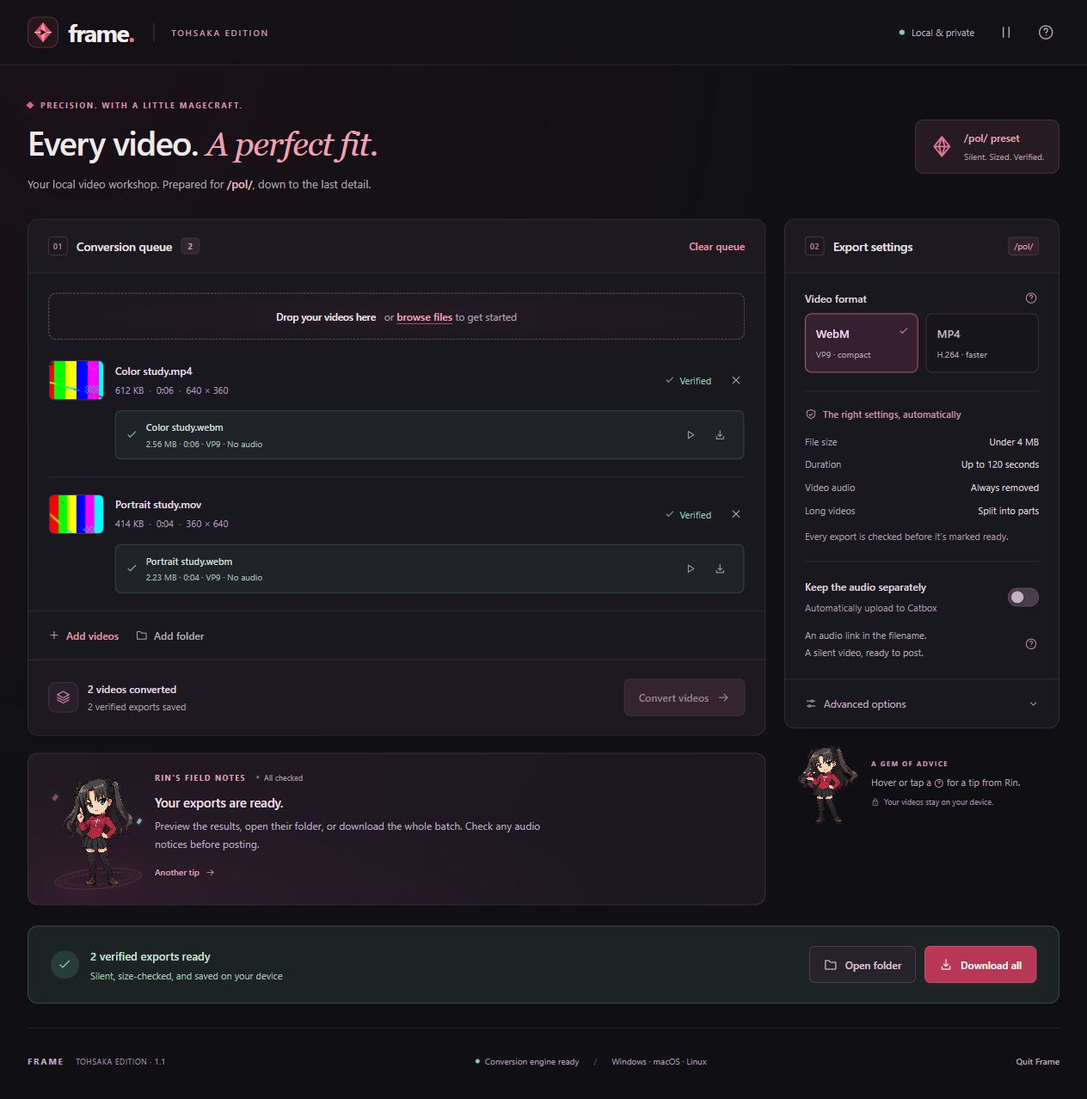
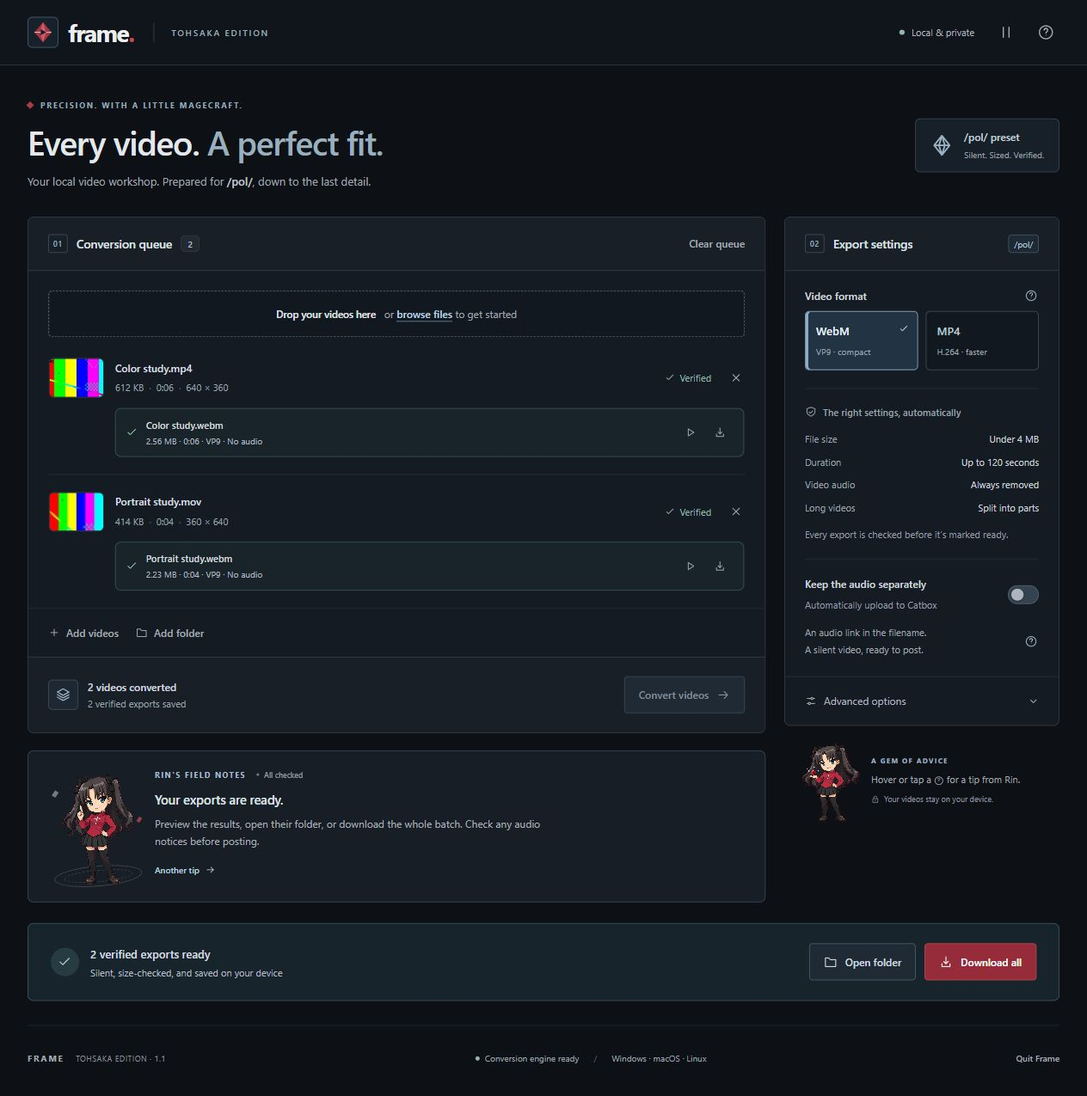
Use cold graphite and steel tones for the Rin interface

diff --git a/public/rin.css b/public/rin.css
@@ -1,57 +1,57 @@
-/* Tohsaka Edition: permanent dark surfaces, ruby accents, quiet character motion. */
-:root{color-scheme:only dark;color:#eee9ed;background:#101014;--green:#e7758e;--green-dark:#ffb0c1;--green-pale:#30202a;--line:#343039;--muted:#a59dab;--text-secondary:#b6aebb;--surface:#19181e;--inset:#141318;--ruby:#e7758e;--jewel:#8ebcdd;--success:#91c9b6}
-body{background:radial-gradient(ellipse at 8% 5%,#35142145,transparent 50%),#101014;min-height:100vh}
-::selection{background:#8b304c;color:#fff}
+/* Tohsaka Edition: cold graphite surfaces, steel-blue controls, restrained crimson accents. */
+:root{color-scheme:only dark;color:#e3e8ed;background:#0d1116;--green:#b8c9d6;--green-dark:#eef4f8;--green-pale:#1b2732;--line:#303b46;--muted:#9aa8b5;--text-secondary:#b2bec8;--surface:#151b22;--inset:#10161c;--ruby:#c34950;--jewel:#8fb1ca;--success:#92b8aa}
+body{min-height:100vh;background:#0d1116}
+::selection{background:#375064;color:#ffffff}
 button:focus-visible,a:focus-visible,summary:focus-visible,input:focus-visible,select:focus-visible,[tabindex]:focus-visible{outline:2px solid var(--jewel);outline-offset:4px}
-.topbar{height:76px;background:#121116eb;border-bottom-color:#302730;padding:0 max(32px,calc((100vw - 1200px)/2));gap:20px}
-.brand{color:#f5edf0;font-size:28px;gap:11px}.brand-dot{color:var(--ruby)}.brand img{width:36px;height:36px}
-.header-divider{background:#3e2c36}.app-description{font-size:10px;font-weight:600;letter-spacing:1.8px;color:#c69ba9}
-.header-right{gap:14px}.local-badge{color:#bab2bf;font-size:11px;margin-right:7px}.status-dot{background:var(--success);box-shadow:0 0 7px #91c9b623}
-.icon-button{color:#b4a8b9;min-height:32px;min-width:32px;border-radius:7px}.icon-button:hover{background:#30232e;color:#ffbfd0}.icon-button:disabled{opacity:.4}
-main{max-width:1200px;margin:0 auto;padding-top:40px}.page-heading{margin-bottom:30px;gap:25px}.eyebrow{color:#d093a5;display:flex;align-items:center;gap:9px;font-size:9px;letter-spacing:1.8px;margin-bottom:13px}
-.tiny-gem{width:6px;height:6px;background:#d16a87;transform:rotate(45deg);box-shadow:0 0 14px #cd446456}
-h1{font-size:39px;font-weight:580;letter-spacing:-1.3px;line-height:1.22;margin-bottom:12px}h1>span{font-family:Georgia,'Times New Roman',serif;font-style:italic;font-weight:400;color:#eea1b6;letter-spacing:-1.1px}.mobile-break{display:none}
-.page-heading p{color:#ada4b3;font-size:13px;line-height:1.65}.inline-code{color:#e6bfca}
-.profile-badge{border-color:#51313f;background:#261a23;color:#e2a5b8;border-radius:10px;gap:12px;padding:12px 17px;box-shadow:inset 0 1px #ffffff03}
-.profile-badge>svg{width:27px;height:27px;margin:0;color:#e27896}.profile-badge strong{display:block;font-size:12px;font-weight:600;margin-bottom:5px}.profile-badge span{font-size:10px;color:#b89aa9;font-weight:400}
+.topbar{height:76px;padding:0 max(32px,calc((100vw - 1200px)/2));gap:20px;background:#10151b;border-bottom-color:#2a3540}
+.brand{color:#edeff2;font-size:28px;gap:11px}.brand-dot{color:var(--ruby)}.brand img{width:36px;height:36px}
+.header-divider{background:#2a3139}.app-description{font-size:10px;font-weight:600;letter-spacing:1.8px;color:#9daab7}
+.header-right{gap:14px}.local-badge{color:#aeb5bd;font-size:11px;margin-right:7px}.status-dot{background:var(--success);box-shadow:none}
+.icon-button{color:#a5acb5;min-height:32px;min-width:32px;border-radius:7px}.icon-button:hover{background:#20272f;color:#c7ced6}.icon-button:disabled{opacity:.4}
+main{max-width:1200px;margin:0 auto;padding-top:40px}.page-heading{margin-bottom:30px;gap:25px}.eyebrow{display:flex;align-items:center;gap:9px;font-size:9px;letter-spacing:1.8px;margin-bottom:13px;color:#94a8b9}
+.tiny-gem{width:6px;height:6px;transform:rotate(45deg);background:#a93c46;box-shadow:none}
+h1{font-size:39px;line-height:1.22;margin-bottom:12px;font-weight:620;letter-spacing:-1.2px}h1>span{font-family:inherit;font-style:normal;font-weight:620;color:#9baebe;letter-spacing:-1.2px}.mobile-break{display:none}
+.page-heading p{color:#a0a7b0;font-size:13px;line-height:1.65}.inline-code{color:#c1c8d1}
+.profile-badge{gap:12px;padding:12px 17px;background:#171f28;border-color:#354554;color:#c1ced9;border-radius:6px;box-shadow:none}
+.profile-badge>svg{width:27px;height:27px;margin:0;color:#99b1c3}.profile-badge strong{display:block;font-size:12px;font-weight:600;margin-bottom:5px}.profile-badge span{font-size:10px;color:#9aa1aa;font-weight:400}
 .workspace{grid-template-columns:minmax(0,1fr) 342px;gap:24px;align-items:start}.queue-column,.settings-column{min-width:0}
-.panel{background:var(--surface);border-color:var(--line);border-radius:12px;box-shadow:0 8px 30px #00000010}.panel-heading{min-height:62px;padding:0 23px;border-bottom-color:#322b35;background:#1c1920}
-h2{color:#e8e0e8;font-size:14px;gap:10px;font-weight:580}.section-number{font-size:9px;font-weight:500;color:#c8869b;border:1px solid #513240;padding:4px 5px;border-radius:4px;font-variant-numeric:tabular-nums;letter-spacing:.5px}
-.count-badge{background:#302630;border-color:#423440;color:#cdb7c3;font-size:10px;min-width:22px}.text-button{color:#e49bb0;font-size:12px;min-height:32px}.text-button:hover{color:#ffc1d2}.text-button:disabled{color:#726573}.text-button.muted{color:#b8a7b8}.text-button.muted:hover{color:#ffc1d2}
-.dropzone{border-color:#61404e;background:radial-gradient(ellipse at center,#43203240,transparent 72%),#1c181f;margin:23px 23px 0;padding:34px 20px 28px;border-radius:9px}
-.dropzone:hover,.dropzone.dragging{border-color:#cc738f;background:#2a1c28}.dropzone.dragging{box-shadow:inset 0 0 0 1px #c5748d}.dropzone[aria-disabled=true]{cursor:default}
-.upload-art{width:56px;height:62px;border:1px solid #704253;background:linear-gradient(140deg,#412131,#281a26);color:#e799b1;box-shadow:0 7px 20px #08060b50;transform:rotate(-5deg);border-radius:10px;margin-bottom:17px}
-.upload-art:after{content:'';position:absolute;inset:5px;border:1px solid #ffffff08;border-radius:7px}.upload-art svg{width:27px;height:27px}
-.orbit-corner{position:absolute;right:-11px;top:8px;width:8px;height:8px;background:#a64360;transform:rotate(45deg);border:1px solid #e990ab}.orbit-corner.small{left:-12px;top:40px;width:5px;height:5px;background:#709bbf;border-color:#aed2e7}
-.dropzone h3{color:#ede2ea;font-size:16px;font-weight:550}.dropzone p{color:#b0a3b6;font-size:12px}.browse-link{color:#f1a4be;text-decoration-color:#a45874}.format-list{color:#ae9cad;font-size:10px;font-weight:450;margin-top:23px;gap:10px}.format-list span{color:#8e788d}.format-list span:last-child{color:#a594a7}
-.queue-empty{display:flex;justify-content:center;gap:23px;padding:26px 18px;color:#a99aaa}.queue-empty>span{display:flex;align-items:center;gap:7px;color:#a99aaa;font-size:10px}.queue-empty svg{width:13px;height:13px;color:#c4879c}
-.queue-add{border-top-color:#302833;padding:12px 23px;gap:20px}.queue-add>span{color:#a595a6;font-size:10px}.queue-add svg{width:14px;height:14px}
-.queue-bottom{background:#1e1921;border-top-color:#392e3a;padding:22px 23px;gap:16px}.summary-icon{background:#28202c;border-color:#493342;color:#c4859d;width:35px;height:35px}.queue-summary strong{color:#e1d6e2;font-size:12px;font-weight:550}.queue-summary span{color:#ad9faf;font-size:11px}
-.primary-button,.secondary-button{min-height:43px;font-size:12px;border-radius:7px;padding:11px 16px}
-.primary-button{background:#b83754;border-color:#ce546f;color:#fff;box-shadow:0 3px 12px #a3234022}.primary-button:hover{background:#ce4362;border-color:#e56b86;color:#fff}.primary-button:disabled{background:#33242f;border-color:#4d3141;color:#9f8396;box-shadow:none}
-.secondary-button{background:#28222d;border-color:#564150;color:#e0c6d5}.secondary-button:hover{background:#392837;border-color:#8d5a74}.small-label{background:#30202b;border-color:#553340;color:#e2a3b6;font-size:10px}
-.settings-section{padding:21px 23px}.field-heading{display:flex;align-items:center;justify-content:space-between;gap:12px;margin-bottom:10px}.field-heading .field-label{margin-bottom:0}.field-label,.field-name{color:#e0d3df;font-size:12px;font-weight:550}.hint-button{display:inline-flex;justify-content:center;align-items:center;flex-shrink:0;width:28px;height:28px;border-radius:6px;background:transparent;color:#c190a7;margin:-6px -5px -6px 0}.hint-button svg{width:15px;height:15px}.hint-button:hover,.hint-button[aria-describedby]{background:#462537;color:#ffb4d0}
-.format-option{background:#17151c;border-color:#453340;color:#c3b2c6;padding:13px 12px;border-radius:8px}.format-option:hover{border-color:#a1617d;background:#271d29}.format-option span{font-size:13px}.format-option small,.format-option.selected small{color:#b3a0b4;font-size:10px}.format-option.selected{background:#342030;border-color:#b45d7b;color:#f5d8e4;box-shadow:0 0 0 1px #bd587714}.format-option.selected>svg{color:#ee9ebc;width:13px;height:13px}
-.requirements{border-color:#342b38;margin:0 23px;padding:19px 0}.requirements .subheading{color:#c998ac}.requirements .subheading strong{font-size:11px;font-weight:500}.requirements dl{margin-top:17px}.requirements dl div{font-size:11px;margin-bottom:12px}.requirements dt{color:#afa0b5}.requirements dd{color:#decfde}.requirements p{color:#a99aac;font-size:11px;margin-top:14px;line-height:1.7}
-.subtle{color:#aa99ae;font-size:11px}.audio-explanation{display:flex;align-items:center;justify-content:space-between;gap:10px;margin-top:14px}.audio-explanation p{color:#b4a2b5;font-size:11px;line-height:1.8;margin:0}.audio-explanation .hint-button{margin:0 -5px 0 0}.switch{width:36px;height:22px}.switch input{width:36px;height:22px}.switch>span{background:#4b3a4b;border:1px solid #655065}.switch>span:after{width:14px;height:14px;top:4px;left:4px;background:#c3b0c4;box-shadow:0 1px 3px #0005}.switch input:checked+span{background:#b9375d;border-color:#cf6584}.switch input:checked+span:after{background:#fff1f6;transform:translateX(14px)}.switch input:focus-visible+span{outline:2px solid var(--jewel);outline-offset:4px}
-.audio-disclosure{background:#34291e;border-color:#655037;color:#e4c294;font-size:11px;padding:12px}.advanced{border-top-color:#392d3b}.advanced>summary{color:#ccafc6;padding:18px 23px;font-size:12px;min-height:56px}.advanced>summary:hover{background:#27202b}.advanced-body{padding:0 23px 23px}.advanced-body>.field-label{margin-top:20px}.field-divider{background:#3b2d40}.checkbox-label{color:#c4abc6;font-size:11px}.checkbox-label input{accent-color:#c85882;width:15px;height:15px}.optional{color:#a78fae;font-size:10px}
-input[type=text],input[type=password],select{background:#141217;color:#e3d3e5;border-color:#534055;font-size:12px;min-height:41px;border-radius:7px}input::placeholder{color:#987f9b}input:disabled,select:disabled{background:#1a171d;color:#88788c;border-color:#3e3244}.field-hint{color:#ad96b3;font-size:11px;line-height:1.75}.filename-preview{background:#211726;border-color:#4b3150;padding:13px;border-radius:8px}.filename-preview>span{color:#c699c4;font-size:9px;letter-spacing:1.2px}.filename-preview code{color:#dec0e0;font-size:11px}.field-error{color:#ffb0b9}
-.file-item{border-bottom-color:#342b39;padding:20px 0}.file-thumb{background:#29212f;border-color:#4d3754;color:#b79abc}.file-name{color:#e7d9e9;font-size:12px}.file-meta,.file-status{color:#b29bbb;font-size:11px}.file-meta span+span:before{color:#705b7b}.file-status.done{color:var(--success)}.file-status.processing{color:#e7a7c9}.file-status.error{color:#ffb0b9}.item-progress>span,.item-stage{color:#baa0c6;font-size:11px}.file-error,.file-warning{color:#e8c695;background:#31271f;border:1px solid #544230}.file-error{background:#391e29;border-color:#6d3c4b;color:#ffb5c7}.output-line{background:#202328;border-color:#384946}.output-line>svg{color:#96c5b9}.output-info strong{color:#cbddd7;font-size:11px}.output-info>span{color:#a7bdb5;font-size:10px}.output-actions .icon-button{min-width:32px;min-height:32px}.import-progress{color:#c49eca;font-size:11px}
-progress,progress::-webkit-progress-bar{background:#3c2c45}progress::-webkit-progress-value{background:#c5709a}progress::-moz-progress-bar{background:#c5709a}.batch-progress{background:#1e1921}.batch-progress span{color:#c6a1cb}.results-bar{background:#1c2325;border-color:#38514b}.success-circle{background:#273e38;color:var(--success)}.results-caption strong{color:#c4e1d6}.results-caption p{color:#a9c1b7;font-size:11px}
-.notice{background:#34281e;border-color:#715137;color:#eec894}.toast{background:#3e233a;border:1px solid #a16487;box-shadow:0 7px 30px #0006;color:#ffe2f2;z-index:400}dialog{background:#201923;color:#f0e2f2;border-color:#624664;box-shadow:0 25px 90px #0009}dialog::backdrop{background:#08060dcc;backdrop-filter:blur(5px)}dialog p,dialog li{color:#c7b0ce;font-size:12px}dialog code{color:#f0b8db}.source-links{border-top-color:#4a3251}#previewVideo{background:#08060b}
-footer{border-top:1px solid #2f2334;margin-top:28px;padding:22px 0 27px;color:#a389ae;font-size:10px}footer>span{color:#c2a3c9;font-size:10px;letter-spacing:1.8px}.footer-version{font-size:9px;color:#a48cac;letter-spacing:.5px;margin-left:9px}footer>div{color:#b19cbb;font-size:10px}.footer-separator{color:#725e7a}
+.panel{background:var(--surface);border-color:var(--line);border-radius:7px;box-shadow:none}.panel-heading{min-height:62px;padding:0 23px;background:#181f27;border-bottom-color:#303b46}
+h2{color:#dee2e7;font-size:14px;gap:10px;font-weight:580}.section-number{font-size:9px;font-weight:500;padding:4px 5px;font-variant-numeric:tabular-nums;letter-spacing:.5px;color:#9cb0c1;border:1px solid #3c4b59;border-radius:3px}
+.count-badge{background:#222932;border-color:#313841;color:#b6bdc5;font-size:10px;min-width:22px}.text-button{color:#a5acb5;font-size:12px;min-height:32px}.text-button:hover{color:#c9cfd8}.text-button:disabled{color:#626972}.text-button.muted{color:#a5acb5}.text-button.muted:hover{color:#c9cfd8}
+.dropzone{margin:23px 23px 0;padding:34px 20px 28px;background:#111820;border-color:#425362;border-radius:5px}
+.dropzone:hover,.dropzone.dragging{background:#18232d;border-color:#8ba8bd}.dropzone.dragging{box-shadow:inset 0 0 0 1px #8ba8bd}.dropzone[aria-disabled=true]{cursor:default}
+.upload-art{width:56px;height:62px;margin-bottom:17px;background:#1c2834;border:1px solid #4a5f71;color:#b8ccdb;box-shadow:none;transform:none;border-radius:5px}
+.upload-art:after{content:'';position:absolute;inset:5px;border:1px solid #ffffff08;border-radius:3px}.upload-art svg{width:27px;height:27px}
+.orbit-corner{position:absolute;right:-11px;top:8px;width:8px;height:8px;transform:rotate(45deg);background:#9f333f;border:1px solid #c45b65}.orbit-corner.small{left:-12px;top:40px;width:5px;height:5px;background:#7394ad;border-color:#a7bdcd}
+.dropzone h3{color:#e1e5e9;font-size:16px;font-weight:550}.dropzone p{color:#a0a7b0;font-size:12px}.browse-link{color:#bdd1e0;text-decoration-color:#64839a}.format-list{color:#9aa1aa;font-size:10px;font-weight:450;margin-top:23px;gap:10px}.format-list span{color:#777e87}.format-list span:last-child{color:#9299a2}
+.queue-empty{display:flex;justify-content:center;gap:23px;padding:26px 18px;color:#979ea7}.queue-empty>span{display:flex;align-items:center;gap:7px;color:#979ea7;font-size:10px}.queue-empty svg{width:13px;height:13px;color:#8e959e}
+.queue-add{border-top-color:#232a33;padding:12px 23px;gap:20px}.queue-add>span{color:#939aa2;font-size:10px}.queue-add svg{width:14px;height:14px}
+.queue-bottom{padding:22px 23px;gap:16px;background:#181f27;border-top-color:#303b46}.summary-icon{width:35px;height:35px;background:#1e2832;border-color:#3a4b5b;color:#a2b8ca;border-radius:5px}.queue-summary strong{color:#d4d9e0;font-size:12px;font-weight:550}.queue-summary span{color:#9ca3ac;font-size:11px}
+.primary-button,.secondary-button{min-height:43px;font-size:12px;padding:11px 16px;border-radius:4px}
+.primary-button{background:#962c39;border-color:#bb4653;color:#ffffff;box-shadow:none}.primary-button:hover{background:#ad3544;border-color:#d15b68;color:#ffffff}.primary-button:disabled{box-shadow:none;background:#202a34;border-color:#374653;color:#81909e}
+.secondary-button{background:#202a34;border-color:#475968;color:#cfdae2}.secondary-button:hover{background:#2a3947;border-color:#7995a9}.small-label{font-size:10px;background:#1d2934;border-color:#405365;color:#b6c9d8}
+.settings-section{padding:21px 23px}.field-heading{display:flex;align-items:center;justify-content:space-between;gap:12px;margin-bottom:10px}.field-heading .field-label{margin-bottom:0}.field-label,.field-name{color:#d1d7de;font-size:12px;font-weight:550}.hint-button{display:inline-flex;justify-content:center;align-items:center;flex-shrink:0;width:28px;height:28px;background:transparent;margin:-6px -5px -6px 0;color:#9bb3c5;border-radius:4px}.hint-button svg{width:15px;height:15px}.hint-button:hover,.hint-button[aria-describedby]{background:#293d4d;color:#e1edf5}
+.format-option{padding:13px 12px;border-radius:5px;background:#111820;border-color:#3b4b59;color:#bac8d3}.format-option:hover{background:#1b2833;border-color:#7e9bb0}.format-option span{font-size:13px}.format-option small,.format-option.selected small{color:#9ea5ae;font-size:10px}.format-option.selected{background:#223443;border-color:#819fb6;color:#e7f0f7;box-shadow:inset 3px 0 #91b0c8}.format-option.selected>svg{width:13px;height:13px;color:#bdd8eb}
+.requirements{border-color:#272e37;margin:0 23px;padding:19px 0}.requirements .subheading{color:#9da4ad}.requirements .subheading strong{font-size:11px;font-weight:500}.requirements dl{margin-top:17px}.requirements dl div{font-size:11px;margin-bottom:12px}.requirements dt{color:#9ea5ad}.requirements dd{color:#cdd3db}.requirements p{color:#979ea7;font-size:11px;margin-top:14px;line-height:1.7}
+.subtle{color:#979ea7;font-size:11px}.audio-explanation{display:flex;align-items:center;justify-content:space-between;gap:10px;margin-top:14px}.audio-explanation p{color:#a0a7b0;font-size:11px;line-height:1.8;margin:0}.audio-explanation .hint-button{margin:0 -5px 0 0}.switch{width:36px;height:22px}.switch input{width:36px;height:22px}.switch>span{background:#354351;border:1px solid #526170}.switch>span:after{width:14px;height:14px;top:4px;left:4px;background:#aeb5be;box-shadow:0 1px 3px #00000055}.switch input:checked+span{background:#567a97;border-color:#9bb5ca}.switch input:checked+span:after{transform:translateX(14px);background:#f2f6f9}.switch input:focus-visible+span{outline:2px solid var(--jewel);outline-offset:4px}
+.audio-disclosure{font-size:11px;padding:12px;background:#26231b;border-color:#5d543b;color:#dfc99a}.advanced{border-top-color:#2a3139}.advanced>summary{color:#b0b7c0;padding:18px 23px;font-size:12px;min-height:56px}.advanced>summary:hover{background:#1c222a}.advanced-body{padding:0 23px 23px}.advanced-body>.field-label{margin-top:20px}.field-divider{background:#2a313a}.checkbox-label{color:#abb2bb;font-size:11px}.checkbox-label input{width:15px;height:15px;accent-color:#759ab5}.optional{color:#8f969f;font-size:10px}
+input[type=text],input[type=password],select{font-size:12px;min-height:41px;background:#10171e;color:#dae4ec;border-color:#405364;border-radius:4px}input::placeholder{color:#7f868f}input:disabled,select:disabled{background:#14181d;color:#767d86;border-color:#2f363f}.field-hint{color:#969da6;font-size:11px;line-height:1.75}.filename-preview{padding:13px;background:#101922;border-color:#364d60;border-radius:4px}.filename-preview>span{color:#9fa6ae;font-size:9px;letter-spacing:1.2px}.filename-preview code{color:#c2c9d1;font-size:11px}.field-error{color:#f0a0a5}
+.file-item{border-bottom-color:#272e37;padding:20px 0}.file-thumb{background:#1e242b;border-color:#373e47;color:#9ca3ab}.file-name{color:#d8dde3;font-size:12px}.file-meta,.file-status{color:#9ba2ab;font-size:11px}.file-meta span+span:before{color:#5b626b}.file-status.done{color:var(--success)}.file-status.processing{color:#b2cfe3}.file-status.error{color:#f0a0a5}.item-progress>span,.item-stage{color:#a1a8b1;font-size:11px}.file-error,.file-warning{background:#29251c;color:#dfc99a;border:1px solid #5d5037}.file-error{background:#2d1d23;border-color:#71444c;color:#f0b0b4}.output-line{background:#182429;border-color:#34505a}.output-line>svg{color:#94bcb1}.output-info strong{color:#d3d9df;font-size:11px}.output-info>span{color:#b1b8c0;font-size:10px}.output-actions .icon-button{min-width:32px;min-height:32px}.import-progress{color:#a2a9b2;font-size:11px}
+progress,progress::-webkit-progress-bar{background:#2e3d4b}progress::-webkit-progress-value{background:#839fb6}progress::-moz-progress-bar{background:#839fb6}.batch-progress{background:#161b20}.batch-progress span{color:#a5acb5}.results-bar{background:#18242b;border-color:#3b535f}.success-circle{background:#273c42;color:#adc6c9}.results-caption strong{color:#d5dae1}.results-caption p{color:#b4bbc4;font-size:11px}
+.notice{background:#29251e;border-color:#6e5b3e;color:#e2c99b}.toast{box-shadow:0 7px 30px #00000066;z-index:400;background:#22303d;border:1px solid #7c9bb2;color:#edf4f9;border-radius:5px}dialog{box-shadow:0 25px 90px #00000099;background:#171f28;color:#e3e8ed;border-color:#536b7e;border-radius:7px}dialog::backdrop{background:#05090de0;backdrop-filter:blur(3px)}dialog p,dialog li{color:#b0b7c0;font-size:12px}dialog code{color:#bfc6cf}.source-links{border-top-color:#323942}#previewVideo{background:#060708}
+footer{border-top:1px solid #20272f;margin-top:28px;padding:22px 0 27px;color:#8a919a;font-size:10px}footer>span{color:#a5acb5;font-size:10px;letter-spacing:1.8px}.footer-version{font-size:9px;color:#8c939c;letter-spacing:.5px;margin-left:9px}footer>div{color:#9ca3ab;font-size:10px}.footer-separator{color:#5d646d}
 /* Sprite sheets are four registered cells: idle, blink, gesture, settle. */
 .rin-sprite{display:block;width:100%;height:100%;background-size:200% 200%;background-position:0 0;background-repeat:no-repeat;image-rendering:pixelated}
 .rin-sprite-guide{background-image:url('/art/rin-guide.png');animation:rin-guide-frames 6.8s steps(1,end) infinite}
 .rin-sprite-jewel{background-image:url('/art/rin-jewel.png');animation:rin-jewel-frames 7.4s steps(1,end) infinite}
 @keyframes rin-guide-frames{0%,35%{background-position:0 0}36%,38%{background-position:100% 0}39%,68%{background-position:0 0}69%,82%{background-position:0 100%}83%,99.99%{background-position:100% 100%}100%{background-position:0 0}}
 @keyframes rin-jewel-frames{0%,40%{background-position:0 0}41%,44%{background-position:100% 0}45%,72%{background-position:0 100%}73%,99.99%{background-position:100% 100%}100%{background-position:0 0}}
-.rin-guide{display:flex;gap:10px;align-items:center;margin-top:20px;min-height:176px;border:1px solid #473044;border-radius:12px;background:radial-gradient(ellipse at 8% 100%,#62274b38,transparent 55%),linear-gradient(120deg,#221923,#1a171f);padding:12px 24px 12px 12px;position:relative;overflow:hidden}
-.rin-stage{width:150px;height:150px;position:relative;flex-shrink:0}.rin-character{position:absolute;inset:0;background:none;padding:0;z-index:1;border-radius:12px;cursor:help}.rin-character:hover{background:#b7518a08}.magic-orbit{position:absolute;bottom:1px;left:18px;right:12px;height:24px;border:1px solid #9d56735e;border-radius:50%;box-shadow:0 0 23px #a9446720,inset 0 0 15px #ae467523;transform:rotate(-5deg)}.magic-orbit:after{content:'';position:absolute;inset:4px 10px;border:1px dashed #aa648460;border-radius:50%}
-.stage-gem{position:absolute;width:5px;height:7px;transform:rotate(35deg);background:#c574a0;box-shadow:0 0 10px #ef83c13b;animation:gem-float 4s ease-in-out infinite}.stage-gem-one{top:31px;left:17px}.stage-gem-two{right:13px;top:64px;width:4px;height:6px;background:#89aec7;animation-delay:-2s}@keyframes gem-float{0%,100%{transform:translateY(0) rotate(35deg);opacity:.55}50%{transform:translateY(-5px) rotate(35deg);opacity:1}}
-.rin-note{min-width:0;flex:1;padding:9px 0}.rin-note-heading{display:flex;gap:12px;align-items:center;flex-wrap:wrap}.rin-name{display:block;color:#dea0ba;font-size:9px;font-weight:650;letter-spacing:1.5px;line-height:1.6}.rin-mood{font-size:9px;color:#b19aaa;position:relative;padding-left:9px}.rin-mood:before{content:'';position:absolute;width:3px;height:3px;border-radius:50%;background:#a56789;left:0;top:4px}.rin-note h3{font-size:16px;font-weight:550;color:#f0dde9;letter-spacing:-.3px;margin:11px 0 7px;line-height:1.4}.rin-note p{font-size:12px;line-height:1.7;color:#bcabc0;margin:0;max-width:470px}.rin-note .text-button{font-size:10px;margin-top:7px;color:#d9a0bd;padding:4px 0}.rin-note .text-button svg{width:12px;height:12px}
-.rin-sidekick{display:flex;align-items:center;gap:1px;padding:6px 0 0;margin-top:7px;min-height:107px}.rin-mini-button{width:100px;height:100px;flex-shrink:0;padding:0;background:none;cursor:help;border-radius:10px}.rin-sidekick .rin-name{font-size:8px;letter-spacing:1.4px;color:#c59fbb}.rin-sidekick p{font-size:11px;line-height:1.65;color:#b6a1b9;margin:6px 0 7px}.rin-sidekick p svg{width:12px;height:12px;color:#d9a0c0}.privacy-caption{font-size:9px;line-height:1.6;display:flex;align-items:center;gap:5px;color:#a491ad}.privacy-caption svg{width:10px;height:10px}
-.rin-tooltip{position:fixed;z-index:300;display:flex;align-items:center;gap:8px;width:340px;max-width:calc(100vw - 24px);background:#2c1e30;border:1px solid #ad7297;box-shadow:0 10px 36px #0009,0 0 0 4px #ba658a09;border-radius:12px;padding:16px 18px 15px 8px;pointer-events:auto;color:#f4e2f1}.tooltip-sprite{width:77px;height:88px;flex-shrink:0;background-size:200% 200%}.rin-tooltip>div{min-width:0}.rin-tooltip .rin-name{font-size:8px;letter-spacing:1.3px}.rin-tooltip strong{display:block;font-size:12px;line-height:1.5;font-weight:550;margin:5px 0}.rin-tooltip p{font-size:11px;line-height:1.75;color:#d5bad9;margin:0}.tooltip-dismiss-hint{display:block;font-size:9px;margin-top:9px;color:#b797be}
+.rin-guide{display:flex;gap:10px;align-items:center;margin-top:20px;min-height:176px;padding:12px 24px 12px 12px;position:relative;overflow:hidden;background:#171e26;border:1px solid #364552;border-radius:7px}
+.rin-stage{width:150px;height:150px;position:relative;flex-shrink:0}.rin-character{position:absolute;inset:0;background:none;padding:0;z-index:1;cursor:help;border-radius:5px}.rin-character:hover{background:#646b7408}.magic-orbit{position:absolute;bottom:1px;left:18px;right:12px;height:24px;border-radius:50%;transform:rotate(-5deg);border:1px solid #67829670;box-shadow:none}.magic-orbit:after{content:'';position:absolute;inset:4px 10px;border-radius:50%;border:1px dashed #7a98af50}
+.stage-gem{position:absolute;width:5px;height:7px;transform:rotate(35deg);animation:gem-float 4s ease-in-out infinite;background:#9caebd;box-shadow:none}.stage-gem-one{top:31px;left:17px}.stage-gem-two{right:13px;top:64px;width:4px;height:6px;animation-delay:-2s;background:#a84049}@keyframes gem-float{0%,100%{transform:translateY(0) rotate(35deg);opacity:.55}50%{transform:translateY(-5px) rotate(35deg);opacity:1}}
+.rin-note{min-width:0;flex:1;padding:9px 0}.rin-note-heading{display:flex;gap:12px;align-items:center;flex-wrap:wrap}.rin-name{display:block;font-size:9px;font-weight:650;letter-spacing:1.5px;line-height:1.6;color:#a8bdce}.rin-mood{font-size:9px;color:#99a0a9;position:relative;padding-left:9px}.rin-mood:before{content:'';position:absolute;width:3px;height:3px;border-radius:50%;background:#70777f;left:0;top:4px}.rin-note h3{font-size:16px;font-weight:550;color:#dee2e7;letter-spacing:-.3px;margin:11px 0 7px;line-height:1.4}.rin-note p{font-size:12px;line-height:1.7;color:#a9b0b9;margin:0;max-width:470px}.rin-note .text-button{font-size:10px;margin-top:7px;padding:4px 0;color:#bacfdf}.rin-note .text-button svg{width:12px;height:12px}
+.rin-sidekick{display:flex;align-items:center;gap:1px;padding:6px 0 0;margin-top:7px;min-height:107px}.rin-mini-button{width:100px;height:100px;flex-shrink:0;padding:0;background:none;cursor:help;border-radius:10px}.rin-sidekick .rin-name{font-size:8px;letter-spacing:1.4px;color:#a1b4c4}.rin-sidekick p{font-size:11px;line-height:1.65;color:#a0a7b0;margin:6px 0 7px}.rin-sidekick p svg{width:12px;height:12px;color:#a7aeb7}.privacy-caption{font-size:9px;line-height:1.6;display:flex;align-items:center;gap:5px;color:#9097a0}.privacy-caption svg{width:10px;height:10px}
+.rin-tooltip{position:fixed;z-index:300;display:flex;align-items:center;gap:8px;width:340px;max-width:calc(100vw - 24px);padding:16px 18px 15px 8px;pointer-events:auto;background:#1c2a36;border:1px solid #7695ac;border-radius:6px;box-shadow:0 10px 30px #00000070;color:#e5eef5}.tooltip-sprite{width:77px;height:88px;flex-shrink:0;background-size:200% 200%}.rin-tooltip>div{min-width:0}.rin-tooltip .rin-name{font-size:8px;letter-spacing:1.3px}.rin-tooltip strong{display:block;font-size:12px;line-height:1.5;font-weight:550;margin:5px 0}.rin-tooltip p{font-size:11px;line-height:1.75;color:#bbc2cb;margin:0}.tooltip-dismiss-hint{display:block;font-size:9px;margin-top:9px;color:#9aa1a9}
 html[data-motion=paused] .rin-sprite,html[data-motion=paused] .stage-gem{animation:none}
 html[data-motion=paused] .rin-sprite{background-position:0 0}
 @media(max-width:1264px){main{margin:0 32px}.topbar{padding:0 32px}.workspace{grid-template-columns:minmax(0,1fr) 320px;gap:22px}.queue-add>span{display:none}.queue-empty{gap:16px}.queue-summary span{max-width:180px}.rin-guide{padding-right:18px;gap:3px}.rin-stage{width:132px;height:142px}.rin-note h3{font-size:15px}}

diff --git a/public/index.html b/public/index.html
@@ -3,7 +3,7 @@
 <head>
   <meta charset="utf-8">
   <meta name="viewport" content="width=device-width,initial-scale=1">
-  <meta name="theme-color" content="#101014">
+  <meta name="theme-color" content="#0d1116">
   <meta name="color-scheme" content="dark">
   <meta name="description" content="Convert videos locally into verified, silent WebM and MP4 files for /pol/.">
   <title>Frame — Tohsaka Edition</title>

diff --git a/README.md b/README.md
@@ -2,7 +2,7 @@
 
 A local batch video converter for 4chan’s `/pol/`: drop in common video files, choose WebM or MP4, and get silent, verified exports. Optional Catbox uploads put a reversible audio link in the filename.
 
-The interface is always dark, with a crimson and charcoal palette, jewel details, and two animated pixel-art Rin companions. Contextual tips work with hover, keyboard focus, or a tap. Pause character motion from the header; system reduced-motion settings are also respected. These are unofficial fan-made Rin Tohsaka illustrations, inspired by TYPE-MOON’s Fate/stay night. Asset prompts and provenance are recorded in [`public/art/provenance.json`](public/art/provenance.json).
+The interface is always dark, with a cold graphite and steel-blue palette, restrained crimson accents, and two animated pixel-art Rin companions. Contextual tips work with hover, keyboard focus, or a tap. Pause character motion from the header; system reduced-motion settings are also respected. These are unofficial fan-made Rin Tohsaka illustrations, inspired by TYPE-MOON’s Fate/stay night. Asset prompts and provenance are recorded in [`public/art/provenance.json`](public/art/provenance.json).
 
 ![Frame’s dark Tohsaka-inspired interface, conversion queue, settings and pixel-art companions](docs/preview.jpg)
 
